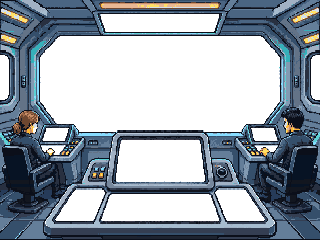
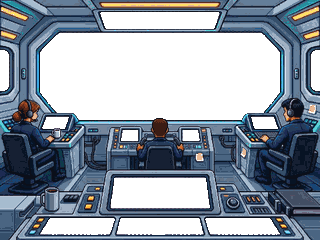
New bridge frame: holes cut, colour-matched, Retro copy; screens and tap areas placed; desk pads one row each (HLM depth and cruise on the right pad); Marcus at the helm with his monitors and a talk tap; status strip at the top on the bridge
Claude-Session: https://claude.ai/code/session_01QsU1qWh9Lm4CoQ2smq7FHb

diff --git a/tablet/js/scene.js b/tablet/js/scene.js
@@ -60,6 +60,8 @@ export function createScene(stage, { onOpen }) {
   const mini = (node, key, html) => { if (cache.get(key) !== html) { cache.set(key, html); node.innerHTML = html; } };
   function updateStations() {
     const s = sim.s, act = activeLink();
+    mini(hmL, 'hmL', `<div><span>HDG</span><b>${String(Math.round(((s.heading % 360) + 360) % 360)).padStart(3, '0')}°</b></div><div><span>SPD</span><b>${s.speed.toFixed(1)}</b></div>`);
+    mini(hmR, 'hmR', `<div><span>DEP</span><b>${Math.round(s.depth)}</b></div><div><span>FLR</span><b>${s.floor != null ? Math.round(s.floor) : '—'}</b></div>`);
     mini(stnL, 'stnL', `<h5>COMMS · LINKS</h5>${LINKS.map((L) => { const st = linkState(L); return `<div class="${st.up ? 'ok' : st.fading ? 'warn' : 'bad'}"><span>${L === act ? '▸' : ' '}${L.n} ${L.label}</span><b>${st.status}</b></div>`; }).join('')}`);
     const near = s.sonar ? s.pois.map((p) => ({ p, ...toward(s, p) })).sort((a, b) => a.nm - b.nm)[0] : null;
     const inRange = s.sonar ? s.pois.filter((p) => toward(s, p).nm <= 4).length : 0, sweeping = s.clock < (s.sweepUntil || 0);
@@ -67,25 +69,32 @@ export function createScene(stage, { onOpen }) {
   }
   topD.classList.add('compact');
   const rect = (x0, y0, x1, y1) => [[x0, y0], [x1, y0], [x1, y1], [x0, y1]];
+  // The bridge frame of 2026-11-27 (the owner's picture, 1024x765, holes cut from its painted checkerboard; art px x 1.875 across, x 1.882 down).
+  // Every screen sits behind its hole; the frame is on top. Measured from the holes: main window, top strip, centre display, the three desk
+  // pads (one row of buttons each), Nicole's and Alex's monitors, and Marcus's two small helm monitors.
+  const hmL = el('div', { class: 'bstn helmmini' }), hmR = el('div', { class: 'bstn helmmini' });
   bridge.append(
     el('div', { class: 'bridge-base' }),
-    box('bmainbox', 240, 216, 1440, 576, [mainD]),                                                       // the big window
-    box('btbox', 606, 90, 708, 90, [topD]),                                                              // Top Strip, in the lit panel
-    slanted('bdispbox', dispD, 560, 190, rect(696, 840, 1224, 1086)),                                    // centre display
-    slanted('', stnL, 200, 74, rect(258, 768, 408, 840)),                                                // left station screen
-    slanted('', stnR, 200, 74, rect(1506, 768, 1656, 840)),                                              // right station screen
-    // the three desk pads: each panel is warped onto its pad's corners (measured from the holes in bridge_original.png, 2026-11-26, grown 4 px
-    // under the frame) and sits BEHIND the frame, so the desk art frames it. TL, TR, BR, BL.
-    slanted('', leftD, 230, 200, [[445, 1132], [623, 1132], [560, 1332], [334, 1332]]),                     // left pad: the page selector
-    slanted('', ctrD, 640, 160, [[657, 1164], [1266, 1164], [1310, 1335], [611, 1335]]),                    // centre pad: the page's own controls
-    slanted('', rightD, 230, 200, [[1298, 1132], [1477, 1132], [1584, 1332], [1353, 1332]]),                // right pad: range and display buttons
+    box('bmainbox', 244, 196, 1430, 524, [mainD]),                                                       // the big window
+    box('btbox', 604, 73, 710, 96, [topD]),                                                              // Top Strip, the panel above the window
+    slanted('bdispbox', dispD, 592, 183, rect(664, 1065, 1256, 1248)),                                   // centre display
+    slanted('', stnL, 200, 92, rect(255, 700, 411, 772)),                                                // Nicole's monitor: comms links
+    slanted('', stnR, 200, 92, rect(1508, 700, 1663, 772)),                                              // Alex's monitor: sensors
+    slanted('', hmL, 150, 96, rect(728, 781, 827, 845)),                                                 // Marcus's left monitor: heading and speed
+    slanted('', hmR, 150, 96, rect(1095, 781, 1194, 845)),                                               // Marcus's right monitor: depth and floor
+    slanted('', leftD, 592, 125, rect(240, 1310, 684, 1404)),                                            // left pad: the page selector
+    slanted('', ctrD, 690, 125, rect(701, 1310, 1219, 1404)),                                            // centre pad: the page's own controls
+    slanted('', rightD, 590, 125, rect(1234, 1310, 1676, 1404)),                                         // right pad: range, display and more
     frame,
-    hs('COMMS', 240, 740, 280, 200, () => onOpen('comms'), 'top'),        // the comms console, left
-    hs('SENSORS', 1420, 740, 260, 200, () => onOpen('sensors'), 'top'),   // the sensors console, right
-    hs('NICOLE', 0, 640, 238, 540, () => onOpen('talk-communications'), 'top'),   // Nicole at comms, head to chair back: tap her to talk
-    hs('ALEX', 1684, 630, 236, 550, () => onOpen('talk-sensors'), 'top'),          // Alex at sensors, head to chair back
-    hs('WALKWAY', 0, 1332, 1920, 108, () => onOpen('walkway'), 'mid'),   // the bottom edge leaves the bridge
+    hs('COMMS', 250, 690, 270, 300, () => onOpen('comms'), 'top'),        // the comms console, left
+    hs('SENSORS', 1400, 690, 270, 300, () => onOpen('sensors'), 'top'),   // the sensors console, right
+    hs('NICOLE', 0, 590, 250, 520, () => onOpen('talk-communications'), 'top'),   // Nicole at comms: tap her to talk
+    hs('ALEX', 1670, 590, 250, 520, () => onOpen('talk-sensors'), 'top'),          // Alex at sensors
+    hs('MARCUS', 860, 700, 200, 330, () => onOpen('talk-helm'), 'top'),           // Marcus at the helm, centre
+    hs('HELM', 700, 760, 150, 110, () => onOpen('helm'), 'top'),                  // his left monitor opens the Helm station
+    hs('◂ WALKWAY', 0, 1130, 230, 310, () => onOpen('walkway'), 'mid'),          // the bottom-left corner leaves the bridge
   );
+
 
   // quarters
   const qimg = artImg('quarters');
@@ -247,6 +256,7 @@ export function createScene(stage, { onOpen }) {
     inQuarters: false, where: 'bridge',
     show(which) {
       api.where = which; api.inQuarters = which === 'quarters';
+      document.body.classList.toggle('on-bridge', which === 'bridge');   // the bridge desk reaches the bottom edge: the status strip moves to the top there
       document.body.classList.toggle('stage-4x3', ['bridge', 'walkway', 'walkway2', 'quarters', 'science', 'launchbay', 'medbay', 'engineering'].includes(which));   // the retro scenes are 4:3, the others are still 16:9
       window.dispatchEvent(new Event('resize'));
       bridge.hidden = which !== 'bridge'; quarters.hidden = which !== 'quarters'; walkway.hidden = which !== 'walkway'; walkway2.hidden = which !== 'walkway2'; science.hidden = which !== 'science'; medbay.hidden = which !== 'medbay'; bay.hidden = which !== 'launchbay'; eng.hidden = which !== 'engineering';

diff --git a/tablet/js/bridge.js b/tablet/js/bridge.js
@@ -197,10 +197,11 @@ export function createBridgeConsole({ top, main, display, center, left, right, o
       tell('helm', r.ok ? 'Nap of the earth, Captain. Ten metres off the bottom.' : r.why === 'docked' ? 'We are docked, Captain.' : 'Not enough water here to follow the floor, Captain.');
     });
     const cruiseB = bbtn('Cruise', () => { const r = sim.setCruise(!sim.s.cruise); tell('helm', r.ok ? (sim.s.cruise ? 'Spooling up the drive, Captain.' : 'Out of super cruise. Easing back.') : cruiseWhy(r.why)); });
+    // the bridge desk pads are one row each (bridge frame of 2026-11-27): steering on the centre pad, depth and cruise on the right pad
     const c = el('div', { class: 'bc' },
-      el('div', { class: 'rowN' }, bbtn('Port', () => turn(-10)), bbtn('Stbd', () => turn(10)), bbtn('Stop', () => sim.stop(), 'stop'), bbtn('Slow', () => thr(-0.1)), bbtn('Fast', () => thr(0.1))),
-      el('div', { class: 'rowN' }, bbtn('Up', () => dep(-50)), bbtn('Dn', () => dep(50)), bbtn('Srfc', () => sim.setDepth(0)), noeB, cruiseB));
-    return { make, c, v: [], expand: 'helm', side() { noeB.classList.toggle('on', !!sim.s.hug); cruiseB.classList.toggle('on', !!sim.s.cruise); } };
+      el('div', { class: 'rowN' }, bbtn('Port', () => turn(-10)), bbtn('Stbd', () => turn(10)), bbtn('Stop', () => sim.stop(), 'stop'), bbtn('Slow', () => thr(-0.1)), bbtn('Fast', () => thr(0.1))));
+    const v = [bbtn('Up', () => dep(-50)), bbtn('Dn', () => dep(50)), bbtn('Srfc', () => sim.setDepth(0)), noeB, cruiseB];
+    return { make, c, v, expand: 'helm', side() { noeB.classList.toggle('on', !!sim.s.hug); cruiseB.classList.toggle('on', !!sim.s.cruise); } };
   })();
 
   // ---------- SYS ----------
@@ -298,12 +299,12 @@ export function createBridgeConsole({ top, main, display, center, left, right, o
   const dspBs = [], panBs = [], shwBs = [];
   const mkBtn = (label, list, toggle) => { const b = bbtn(label, toggle); list.push(b); return b; };
   const flip = (which) => { if (which === 'dsp') dspOn = !dspOn; else if (which === 'pan') { panOn = !panOn; shwOn = false; if (!panOn) views.nav.panOff(); } else { shwOn = !shwOn; panOn = false; views.nav.panOff(); } paint(); update(); };
-  const BANK = 6;   // the right desk is a bank of six slots (two rows of three); a page with fewer buttons leaves blank place holders
+  const BANK = 6;   // the right desk is a bank of six slots in one row; a page with fewer buttons leaves blank place holders
   const blank = () => Object.assign(bbtn('', () => {}, 'blank'), { disabled: true, tabIndex: -1 });
   for (const id of order) {
     const items = [...views[id].v, mkBtn('DSP', dspBs, () => flip('dsp')), ...(id === 'nav' ? [mkBtn('PAN', panBs, () => flip('pan')), mkBtn('SHW', shwBs, () => flip('shw'))] : [])];
     while (items.length < BANK) items.push(blank());
-    views[id].vc = el('div', { class: 'bc msc' }, el('div', { class: 'rowN' }, ...items.slice(0, 3)), el('div', { class: 'rowN' }, ...items.slice(3, BANK)));
+    views[id].vc = el('div', { class: 'bc msc' }, el('div', { class: 'rowN' }, ...items.slice(0, BANK)));   // one row of six: the desk pads are wide and short
     right.append(views[id].vc);
   }
   // Pan arrows replace the controls on the centre desk while PAN is on

diff --git a/tablet/tablet.css b/tablet/tablet.css
@@ -1050,3 +1050,14 @@ button.route-row { width: 100%; text-align: left; color: var(--text); font: inhe
 .bt.compact .bt-place.note { white-space: normal; display: -webkit-box; -webkit-line-clamp: 2; -webkit-box-orient: vertical; font-size: 20px; line-height: 24px; letter-spacing: .02em; text-align: center; }
 .bt.compact .bt-place.note + .bt-pos { display: none; }
 /* no keyboard-style cursor arrow on the dialogue choices (owner, 2026-11-27: this is a touch screen); a press still highlights the line */
+
+/* bridge frame of 2026-11-27: the desk pads are wide and short, one row of buttons each */
+.bleft .selector { grid-template-columns: repeat(6, 1fr); grid-template-rows: 1fr; padding: 12px 14px; gap: 8px; }
+.bleft .selector .bbtn, .bright .msc .bbtn, .bctl .bbtn { font-size: 26px; border-width: 3px; }
+.bright .msc .bbtn.sym { font-size: 40px; } .bright .msc { padding: 12px 12px; } .bctl .bc { padding: 12px 16px; }
+.bright .msc .rngbox .rng { font-size: 26px; } .bright .msc .rngbox small { font-size: 13px; }
+.bstn.helmmini { font-size: 26px; line-height: 1.5; padding: 8px 12px; } .bstn.helmmini div { display: flex; justify-content: space-between; } .bstn.helmmini b { color: var(--cyan); }
+body.on-bridge .dock { bottom: auto; top: calc(env(safe-area-inset-top) + 0.15rem); padding-right: 15.5rem; }
+/* the pads' ends are angled under the frame: keep the outer buttons clear of them */
+.bleft .selector { padding: 12px 18px 12px 46px; } .bright .msc { padding: 12px 46px 12px 14px; } .bctl .bc { padding: 12px 24px; }
+body.on-bridge .dock-status { background: rgba(3,14,24,.82); border-radius: 0 0 10px 10px; padding: 2px 12px; }

diff --git a/sw.js b/sw.js
@@ -2,7 +2,7 @@
    falls back to the saved copy when offline or slow. Covers the iPad game (tablet/) and the
    iPhone PED (ped/). Only same-origin GET requests are handled: GitHub sync calls go straight to
    the network. Run `python3 tools/update_sw.py` after adding or renaming files. */
-const VERSION = '71d0543651';
+const VERSION = '2ac51edc60';
 const CACHE = 'aquanova-' + VERSION;
 const ASSETS = [
  "tablet/",

diff --git a/tools/even_palette.py b/tools/even_palette.py
@@ -80,7 +80,7 @@ def snap(img_rgb, alpha=None):
 def main():
     os.makedirs(SRC, exist_ok=True)
     for r in ROOMS:   # first run: keep the untouched originals (and the owner's bridge pixel frame)
-        for f in [fname(r)] + (['bridge.png'] if r == 'bridge' else []):
+        for f in [fname(r)]:
             if not os.path.exists(os.path.join(SRC, f)): shutil.copy2(os.path.join(OUT, f), os.path.join(SRC, f))
     _, rrgb, ralpha = load(os.path.join(SRC, fname(REF)))
     ref_lab = to_lab(rrgb)[ralpha > 8]; ref_L = np.sort(ref_lab[:, 0])
@@ -92,10 +92,9 @@ def main():
         out = Image.fromarray(res, 'RGB')
         if r == 'bridge':
             o = out.convert('RGBA'); o.putalpha(Image.fromarray(alpha.astype(np.uint8))); o.save(os.path.join(OUT, fname(r)), optimize=True)
-            # the Retro bridge is the owner's own 320x240 pixel frame: the same correction, then back onto the palette
-            _, brgb, balpha = load(os.path.join(SRC, 'bridge.png'))
-            b = Image.fromarray(match(brgb, balpha, ref_lab, ref_L), 'RGB')
-            snap(b, Image.fromarray(balpha.astype(np.uint8))).save(os.path.join(OUT, 'bridge.png'))
+            # the Retro bridge: the matched frame at 320x240 on the palette, its screen holes kept (alpha resized hard, no soft edges)
+            small_a = Image.fromarray(alpha.astype(np.uint8)).resize((320, 240), Image.NEAREST)
+            snap(o.convert('RGB').resize((320, 240), Image.LANCZOS), small_a).save(os.path.join(OUT, 'bridge.png'))
         else:
             if r in REPIXEL:
                 out = repixel(out, Image.open(os.path.join(SRC, fname(REF))).convert('RGB'))

diff --git a/tools/retro_bridge_test.py b/tools/retro_bridge_test.py
@@ -24,7 +24,7 @@ with sync_playwright() as p:
     import re
     check("readouts follow the ship (speed, depth, heading)", re.search(r"\b[5-9]\.\d", t) and re.search(r"\b1[12]\d", t), t)
     js("const n=await import('../js/notify.js'); n.say('helm','Captain, we have a contact bearing 045.','')"); pg.wait_for_timeout(300)
-    check("a crew message appears in the message line", "contact bearing 045" in pg.inner_text("#console-line"))
+    check("a crew message waits for the Captain (it opens their dialogue since 2026-11-27)", js("const n=await import('../js/notify.js'); return n.unreadFor('helm')") > 0)
     pg.tap(".bleft .bbtn:nth-child(2)"); pg.wait_for_timeout(300)
     check("HLM page shows on the center screen and its buttons on the desk", "HDG" in pg.inner_text(".rdisp") and "Prt" in pg.inner_text(".rctl"))
     pg.tap(".bleft .bbtn:nth-child(1)"); pg.wait_for_timeout(300)

diff --git a/docs/HANDOFF.md b/docs/HANDOFF.md
@@ -1,6 +1,6 @@
 # Handoff (read this first when a session starts; update it before parking)
 
-Last updated: 2026-11-26. Branch to work on: `tablet`. Repo: NickWest27/AquaNova (GitHub Pages path `/AquaNova/`). Last change: 16-bit sound effects library (`tablet/js/sfx.js`, 32 sounds; previews `docs/audio/sfx/`, reel `docs/audio/sfx_reel.mp3` + `.txt`, rendered by `tools/render_sfx.py`; Effects slider in PED Settings). Wired: general alarm, impact/crash, fire and flooding alarms, super cruise power-up and engage, emergency blow, sonar sweep ping, doors between rooms, the engine room loop, radio squelch when the communicator opens; before that short crew lines show as notices on the bridge's overhead console (two lines, whole panel); ARIA's hints wait at least a minute; bigger overhead and nav log text; the vertical profile uses the nav screen's colours (warning yellow and red kept); before that every crew message opens the dialogue (hints, reports, objective lines); only the reply to a button press (`tell()`) and action ticks stay a short line at the foot of the screen (notify.js); before that main title "Beneath the Waves" (original, 16-bit style, `tablet/js/theme.js`; PED Settings > Play theme; render with `tools/render_theme.py` to `docs/audio/aqua_nova_theme.mp3`); before that the communicator never replaces what the Captain is reading: new lines wait behind "Continue" (crew.js readTo); before that fixed Restart from the beginning (a new game was no longer recognised because 'pick up the communicator' now starts as waiting; `commsLocked` in app.js; test `tools/restart_test.py`); before that no discovery notes in the logbook (arrivals to the PED Journal, records to PED Findings); before that one task at a time (objective status 'waiting' until the step before is done; follow-on missions start after a short saved pause; the PED shows done steps, the current one and how many are to come); super cruise spools up for 8 s and eases in and out, any other power setting drops it; Route editor Edit button and a degrees-and-minutes read-back in the waypoint dialog; the trials escort (OERA Seaward, CGC Vigilant) on AIS; the 300 m depth is a certification step (story bible); before that route planner fix (trips over about 120 nm fell off the search grid and were reported as blocked: `route.js` now grows its cells on long trips; test in `tools/route_test.mjs`); the commissioning orders give the AO's centre point, not its corners; before that walkway A1, walkway AN-1 and medbay back to the colour-matched pictures (a pixel-art rebuild by filter looked smudged; they need redrawing to be as crisp as the launch bay); stray speckles removed from the Retro copies; BRIDGE sign on A1 drawn by the game; before that rooms open with the story and crew join the communicator when their room is visited (`rooms.js`, see `docs/COMMS_AND_PROGRESSION.md`); ARIA's bridge introduction; before that crew renamed (Lt. Andre Washington for security, Chief Engineer Ryan Doyle; see `docs/STORY_BIBLE.md`); the Captain's lines in the communicator are conversational (`SAY` in `stations/crew.js`); Call another station; Take me to my quarters removed; before that communicator menu tidied and First Contact completes on ARIA's introduction (see `docs/HELM_AND_ORDERS.md`); before that portraits and dialogue screens for Marcus, ARIA and Dr. Patel (`tools/crew_art.py`, sources in `art_src/crew/`; text box side per picture: `SCENE_BOX` in art.js); before that room pictures evened out to the Engineering picture's brightness and colour (`tools/even_palette.py`; the untouched originals are in `art_src/rooms/`, outside the served folders: a new room picture goes there first, then run the script, which also remakes the Retro copies); bigger crew tap areas on the bridge; before that the owner's testing list (below, all 18 items); before that the quarters wall screen cycles NAV, synthetic vision, sonar, WSKRs and ship status (`quartersScreen.js`, tap = next page, 10 s each; test `tools/quarters_screen_test.py`); pushing the trials for records with a risk of light damage (`trials.js`); story bible brought up to date; before that Sea Trials became the commissioning trip to the Trials AO (welcome letter in the logbook, commissioning orders by mail, Welcome to the AO mail; nav, eng and super cruise commissioned in steps; see the tutorial table in `docs/COMMS_AND_PROGRESSION.md`); before that the owner's welcome letter in the logbook; before that general alarm (ARIA order + engineering button; red lighting and frames; faster fire/flood response if sounded first; see `docs/ENGINEERING.md`); before that the Engineering room shows the ship's state (core glow amber/red, live console screens, red alarm for fire/flooding; see `docs/ENGINEERING.md`); before that the engineering computer; before that the 90s dialogue screen for Nicole; before that Nicole's portrait; before that walkway AN-1 and Engineering on the owner's pictures (every room is now 4:3); before that site survey (`survey.js`, Survey site on SONAR, Seabed survey missions) and the XO tends Remora before getting under way; before that Remora's tether parts past its length, the Tern fetches her (`tools/tether_test.py`); before that PED, communicator and corner buttons in the 4:3 box; before that Launch Bay as instruments, WSKRs have their own launch bays, standard target readout (`readout.js`), Full sweep 36 s; before that station pages are a 4:3 page (1024 x 768) scaled like the stage; before that pages fit the screen (`tools/fit_test.py`) and Sensors has SONAR and WSKRs only; before that contact tracking (detection chance, names belong to tracks, probable matches, signatures on file: `docs/CONTACT_TRACKING.md`); before that identified ships saved; before that one zoom direction everywhere ("+" zooms in) and round map zoom buttons; before that the bridge original picture with real transparent holes; before that the medbay on the owner's picture (after bridge, walkway A1, quarters, science lab, launch bay).
+Last updated: 2026-11-26. Branch to work on: `tablet`. Repo: NickWest27/AquaNova (GitHub Pages path `/AquaNova/`). Last change: NEW BRIDGE FRAME (the owner's picture of 2026-11-27, 1024x765, holes cut from its painted checkerboard; source `art_src/rooms/bridge_original.png`, colour-matched by `tools/even_palette.py`, Retro copy snapped from it). Marcus at the centre helm (tap him to talk; his left monitor opens the Helm station; his two small monitors show heading/speed and depth/floor), Nicole left, Alex right. The three desk pads are one row each: HLM's depth and cruise buttons moved to the right pad. The status strip moves to the top on the bridge (`body.on-bridge`). Walkway exit: bottom-left corner. Before that: 16-bit sound effects library (`tablet/js/sfx.js`, 32 sounds; previews `docs/audio/sfx/`, reel `docs/audio/sfx_reel.mp3` + `.txt`, rendered by `tools/render_sfx.py`; Effects slider in PED Settings). Wired: general alarm, impact/crash, fire and flooding alarms, super cruise power-up and engage, emergency blow, sonar sweep ping, doors between rooms, the engine room loop, radio squelch when the communicator opens; before that short crew lines show as notices on the bridge's overhead console (two lines, whole panel); ARIA's hints wait at least a minute; bigger overhead and nav log text; the vertical profile uses the nav screen's colours (warning yellow and red kept); before that every crew message opens the dialogue (hints, reports, objective lines); only the reply to a button press (`tell()`) and action ticks stay a short line at the foot of the screen (notify.js); before that main title "Beneath the Waves" (original, 16-bit style, `tablet/js/theme.js`; PED Settings > Play theme; render with `tools/render_theme.py` to `docs/audio/aqua_nova_theme.mp3`); before that the communicator never replaces what the Captain is reading: new lines wait behind "Continue" (crew.js readTo); before that fixed Restart from the beginning (a new game was no longer recognised because 'pick up the communicator' now starts as waiting; `commsLocked` in app.js; test `tools/restart_test.py`); before that no discovery notes in the logbook (arrivals to the PED Journal, records to PED Findings); before that one task at a time (objective status 'waiting' until the step before is done; follow-on missions start after a short saved pause; the PED shows done steps, the current one and how many are to come); super cruise spools up for 8 s and eases in and out, any other power setting drops it; Route editor Edit button and a degrees-and-minutes read-back in the waypoint dialog; the trials escort (OERA Seaward, CGC Vigilant) on AIS; the 300 m depth is a certification step (story bible); before that route planner fix (trips over about 120 nm fell off the search grid and were reported as blocked: `route.js` now grows its cells on long trips; test in `tools/route_test.mjs`); the commissioning orders give the AO's centre point, not its corners; before that walkway A1, walkway AN-1 and medbay back to the colour-matched pictures (a pixel-art rebuild by filter looked smudged; they need redrawing to be as crisp as the launch bay); stray speckles removed from the Retro copies; BRIDGE sign on A1 drawn by the game; before that rooms open with the story and crew join the communicator when their room is visited (`rooms.js`, see `docs/COMMS_AND_PROGRESSION.md`); ARIA's bridge introduction; before that crew renamed (Lt. Andre Washington for security, Chief Engineer Ryan Doyle; see `docs/STORY_BIBLE.md`); the Captain's lines in the communicator are conversational (`SAY` in `stations/crew.js`); Call another station; Take me to my quarters removed; before that communicator menu tidied and First Contact completes on ARIA's introduction (see `docs/HELM_AND_ORDERS.md`); before that portraits and dialogue screens for Marcus, ARIA and Dr. Patel (`tools/crew_art.py`, sources in `art_src/crew/`; text box side per picture: `SCENE_BOX` in art.js); before that room pictures evened out to the Engineering picture's brightness and colour (`tools/even_palette.py`; the untouched originals are in `art_src/rooms/`, outside the served folders: a new room picture goes there first, then run the script, which also remakes the Retro copies); bigger crew tap areas on the bridge; before that the owner's testing list (below, all 18 items); before that the quarters wall screen cycles NAV, synthetic vision, sonar, WSKRs and ship status (`quartersScreen.js`, tap = next page, 10 s each; test `tools/quarters_screen_test.py`); pushing the trials for records with a risk of light damage (`trials.js`); story bible brought up to date; before that Sea Trials became the commissioning trip to the Trials AO (welcome letter in the logbook, commissioning orders by mail, Welcome to the AO mail; nav, eng and super cruise commissioned in steps; see the tutorial table in `docs/COMMS_AND_PROGRESSION.md`); before that the owner's welcome letter in the logbook; before that general alarm (ARIA order + engineering button; red lighting and frames; faster fire/flood response if sounded first; see `docs/ENGINEERING.md`); before that the Engineering room shows the ship's state (core glow amber/red, live console screens, red alarm for fire/flooding; see `docs/ENGINEERING.md`); before that the engineering computer; before that the 90s dialogue screen for Nicole; before that Nicole's portrait; before that walkway AN-1 and Engineering on the owner's pictures (every room is now 4:3); before that site survey (`survey.js`, Survey site on SONAR, Seabed survey missions) and the XO tends Remora before getting under way; before that Remora's tether parts past its length, the Tern fetches her (`tools/tether_test.py`); before that PED, communicator and corner buttons in the 4:3 box; before that Launch Bay as instruments, WSKRs have their own launch bays, standard target readout (`readout.js`), Full sweep 36 s; before that station pages are a 4:3 page (1024 x 768) scaled like the stage; before that pages fit the screen (`tools/fit_test.py`) and Sensors has SONAR and WSKRs only; before that contact tracking (detection chance, names belong to tracks, probable matches, signatures on file: `docs/CONTACT_TRACKING.md`); before that identified ships saved; before that one zoom direction everywhere ("+" zooms in) and round map zoom buttons; before that the bridge original picture with real transparent holes; before that the medbay on the owner's picture (after bridge, walkway A1, quarters, science lab, launch bay).
 
 ## Owner's testing list (2026-11-26): all done 2026-11-27, waiting for the owner to test on the iPad
 Rooms and signs

diff --git a/docs/BRIDGE_CONSOLE.md b/docs/BRIDGE_CONSOLE.md
@@ -71,3 +71,9 @@ Old page ids `helm` and `view` are now `hlm` and `vw`. The old per-page right-de
 - **Mission areas** are amber boxes on every chart (`nd.js`): a mission's `"area": { name, lat0, lat1, lon0, lon1 }` (the Trials AO) and patrol areas (dashed until the window opens; the inside test is the same box, `missionGen.js`). An area is never a destination: the player makes a waypoint inside it.
 - The lower display's NAV page is north up (track up is gone from the bridge), with range rings at a quarter, half or the whole range setting carried out to the corners. The WSKR station's chart keeps track up.
 - (2026-11-27, later) The Route editor has **Edit** for the selected waypoint (it opens in degrees and minutes). The waypoint dialog reads every position back in degrees and minutes (39.54 is 39°32.4′, not 39°54′).
+
+## Bridge frame of 2026-11-27
+- The owner's new picture: Marcus at the centre helm below the window, Nicole at comms (left), Alex at sensors (right). Screens behind holes (`scene.js`, stage px): main window 244,196 1430x524; top strip 604,73 710x96; centre display 664-1256 x 1065-1248; Nicole's monitor (comms links), Alex's monitor (sensors), Marcus's two small monitors (HDG/SPD, DEP/FLR); three desk pads at y 1310-1404 (left 240-684, centre 701-1219, right 1234-1676).
+- The pads are wide and short: **one row each**. Left: the six pages. Centre: the page's controls (HLM: Port, Stbd, Stop, Slow, Fast). Right: six slots (NAV: range, DSP, PAN, SHW; HLM: Up, Dn, Srfc, NOE, Cruise, DSP).
+- Tap areas: COMMS and SENSORS on the consoles, NICOLE, ALEX and MARCUS on the crew, HELM on Marcus's left monitor, WALKWAY in the bottom-left corner.
+- On the bridge the status strip (day, position, objective, battery) sits at the top, over the ceiling, so it does not cover the desk.
